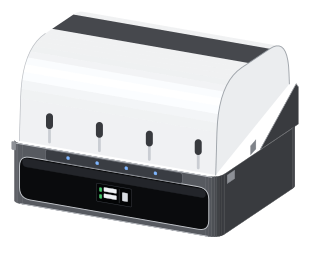
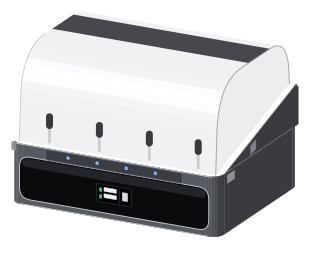
fix(ams): the CFS body edge climbs from the front corner (prestonbrown/helixscreen#2068)

Changed region(s): [[0.7188, 0.3307, 0.9375, 0.6614], [0.6875, 0.6614, 0.7188, 0.689]]

diff --git a/scripts/unit_art/units/cfs.py b/scripts/unit_art/units/cfs.py
@@ -8,7 +8,7 @@ from ..kit import TrayShellDef, UnitDef
 W, D, H = 1.0, 0.76, 0.70
 ZR = 0.29
 CHEEK_TOP = ZR + 0.19
-CHEEK_KNEE_Y = 0.40
+CHEEK_KNEE_Y = 0.07
 BODY, PANEL, TRIM, CLEAR, ROOF = "#55585e", "#0a0b0d", "#c4c7cc", "#b4bac2", "#33363b"
 LED = "#7fb6ff"
 LEDS = [0.28, 0.42, 0.56, 0.70]
